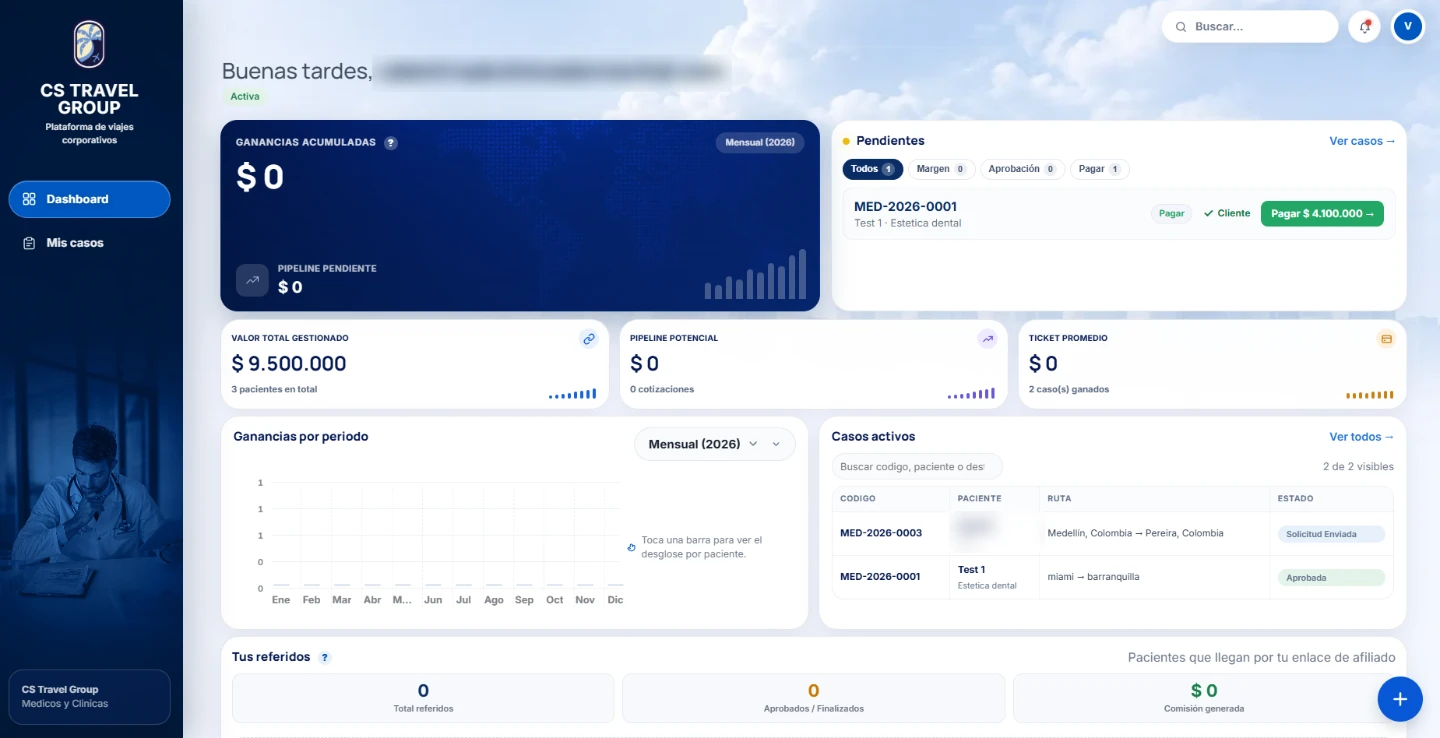
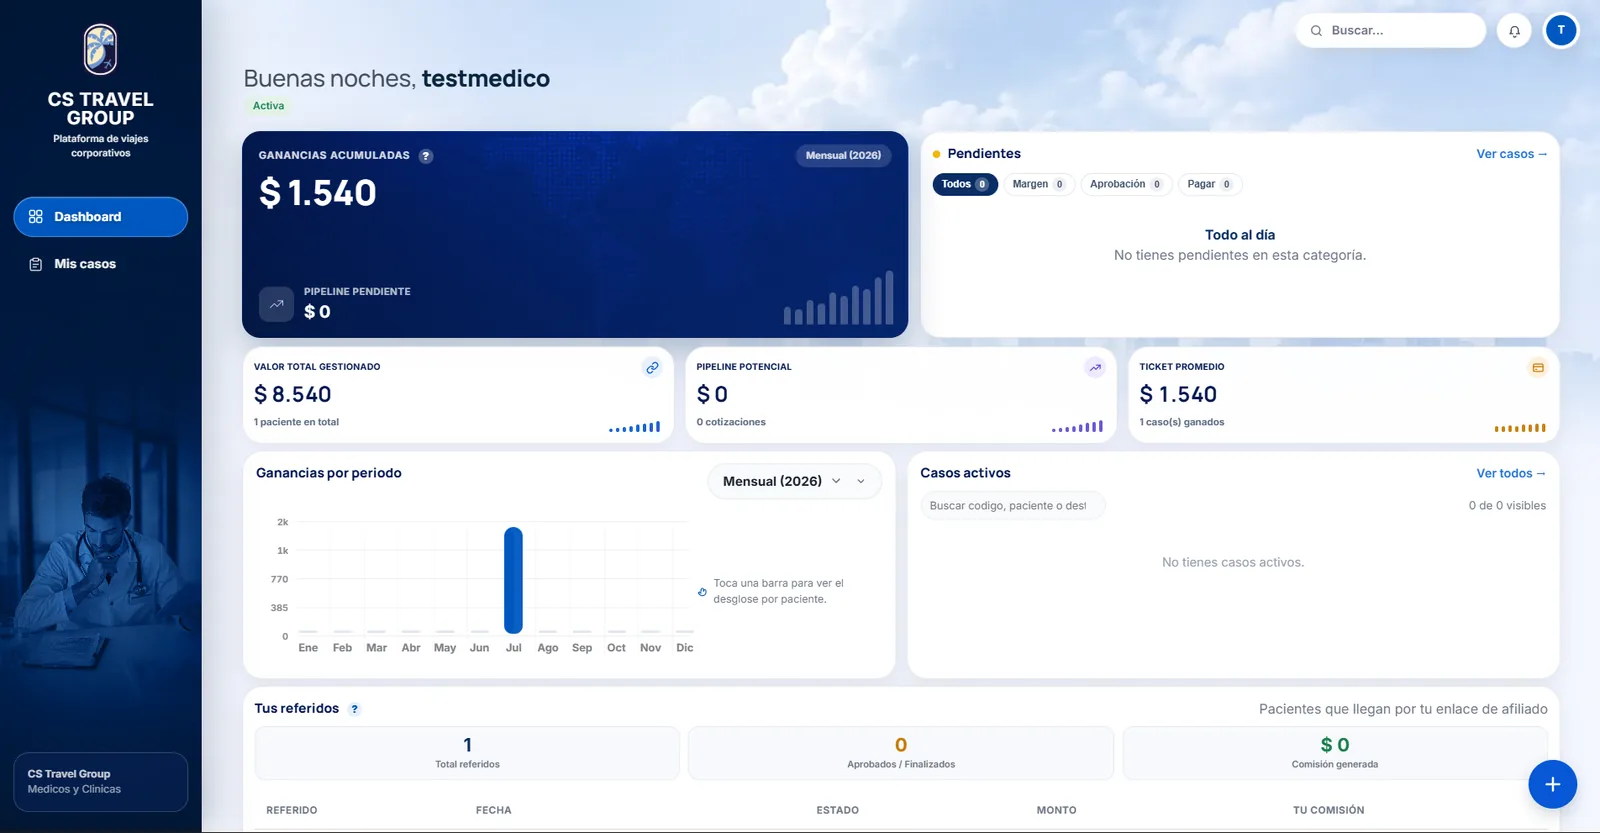
CS Travel: la captura nueva, y lo que el portal hace de verdad
LA DESCRIPCION ESTABA MAL Y ERA LO IMPORTANTE. Decia "portal para medicos
afiliados", que describe a los usuarios y no el negocio. Corregido con tu
explicacion: CS Travel da a sus afiliados un precio de mayorista; el afiliado
arma el caso de su paciente, decide cuanto cobra, y la diferencia es su
comision. El portal es donde lo lleva todo. Ahora es "portal de gestion para
afiliados de viaje" y las cuatro capacidades se reescriben desde ahi —la
segunda pasa a ser la comision calculada sola, que es la razon de que el
sistema exista.

LA CAPTURA NUEVA. Ademas de ser mas clara, no lleva nombre de paciente
difuminado: los datos que se ven son de una cuenta de prueba. 1600x833, 53 KB.

Y UN FALLO QUE HABRIA PASADO A PRODUCCION: el archivo se reemplazo conservando
el nombre, asi que el navegador seguia sirviendo la captura anterior desde su
cache. Comprobado: cargaba la vieja de 1440x738 teniendo la nueva de 1600x833
en disco. Se le pone ?v=2, con la nota de por que.

LA CABECERA, como en tu maqueta: "Caso destacado" con su rayita, y debajo CS
Travel Group como titular grande (38px, peso 800) en vez de como subtitulo. La
seccion se llama "software que ya mueve una operacion real" y lo que hay que
leer despues es DE QUIEN.

FUERA los cinco pasos de proceso que estaban debajo, y sus estilos. El proceso
ya se cuenta en "cuando vale la pena construir a la medida"; repetirlo aqui
alargaba sin anadir.

Y las cifras inventadas de la maqueta —"+320 medicos", "$950M", "98,7%"— no
[…]

diff --git a/software-a-medida/index.html b/software-a-medida/index.html
@@ -51,7 +51,7 @@
 
   <link rel="preload" href="/assets/fonts/inter-tight-latin-var.woff2" as="font" type="font/woff2" crossorigin>
   <link rel="preload" href="/assets/fonts/inter-latin-var.woff2" as="font" type="font/woff2" crossorigin>
-  <link rel="stylesheet" href="/assets/pagina.css?v=20260805u">
+  <link rel="stylesheet" href="/assets/pagina.css?v=20260805v">
 
   <script type="application/ld+json">
 {
@@ -576,14 +576,56 @@
       max-width: 68ch;
     }
 
-    /* ---- Caso ------------------------------------------------------------- */
+    
+
+    /* ---- Caso: la cabecera de la columna izquierda ------------------------
+       El nombre del cliente es el titular, no el subtitulo. En la maqueta va
+       grande y en negrita con "caso destacado" encima, y tiene sentido: la
+       seccion se llama "software que ya mueve una operacion real" y lo que
+       hay que leer despues es DE QUIEN. */
     .caso-kicker {
-      font-size: 12px;
-      font-weight: 700;
-      letter-spacing: .07em;
+      display: flex;
+      align-items: center;
+      gap: .6rem;
+      font-size: 11.5px;
+      font-weight: 800;
+      letter-spacing: .09em;
       text-transform: uppercase;
       color: var(--violet);
-      margin-bottom: .8rem;
+      margin-bottom: .7rem;
+    }
+
+    /* La rayita que acompana al antetitulo en la maqueta. */
+    .caso-kicker span {
+      display: block;
+      width: 34px;
+      height: 2px;
+      background: currentColor;
+      opacity: .45;
+      order: 2;
+    }
+
+    .caso-nombre {
+      font-family: var(--display);
+      font-size: clamp(2rem, 4.4vw, 3rem);
+      font-weight: 800;
+      letter-spacing: -.045em;
+      line-height: 1.05;
+      color: var(--ink);
+      margin-bottom: .35rem;
+    }
+
+    .caso-cliente {
+      font-size: 15px;
+      font-weight: 500;
+      color: var(--ink-soft);
+      margin-bottom: 1.4rem;
+    }
+
+    .caso-intro {
+      color: var(--ink-soft);
+      line-height: 1.7;
+      max-width: 46ch;
     }
 
     .caso-grid {
@@ -594,14 +636,7 @@
       margin-top: 2.4rem;
     }
 
-    .caso-cliente {
-      font-size: 13px;
-      font-weight: 700;
-      color: var(--ink);
-      margin-bottom: .8rem;
-    }
-
-    .caso-txt > p { color: var(--ink-soft); line-height: 1.7; }
+    
 
     .caso-lista {
       list-style: none;
@@ -663,49 +698,15 @@
       transform: perspective(1600px) rotateY(0) rotateX(0);
     }
 
-    /* ---- Proceso ----------------------------------------------------------- */
-    .caso-pasos {
-      list-style: none;
-      margin: 3rem 0 0;
-      padding: 1.8rem 0 0;
-      border-top: 1px solid var(--line);
-      display: grid;
-      grid-template-columns: repeat(5, minmax(0, 1fr));
-      gap: 1.4rem;
-      counter-reset: paso;
-    }
-
-    .caso-pasos li {
-      counter-increment: paso;
-      font-size: 12.5px;
-      line-height: 1.55;
-      color: var(--ink-soft);
-    }
-
-    .caso-pasos b {
-      display: block;
-      font-size: 13.5px;
-      font-weight: 700;
-      color: var(--ink);
-      margin-bottom: .25rem;
-    }
-
-    .caso-pasos b::before {
-      content: counter(paso, decimal-leading-zero) " · ";
-      color: var(--violet);
-    }
-
     @media (max-width: 900px) {
       .sint-grid { grid-template-columns: 1fr; gap: 1.4rem; }
       .caso-grid { grid-template-columns: 1fr; gap: 2rem; }
       /* Sin inclinación en el teléfono: una captura girada en pantalla
          estrecha pierde altura útil y se lee peor. */
       .caso-shot img { transform: none; }
-      .caso-pasos { grid-template-columns: repeat(2, minmax(0, 1fr)); }
     }
 
     @media (max-width: 520px) {
-      .caso-pasos { grid-template-columns: 1fr; gap: 1rem; }
     }
   </style>
 </head>
@@ -977,74 +978,73 @@
     </section>
 
     <!-- UN CASO REAL.
-         Distribución tomada de la maqueta que pasó Nicolás: lista a la
-         izquierda, captura inclinada a la derecha, y el proceso en una fila
-         abajo.
+         Distribución de la maqueta de Nicolás: el NOMBRE DEL CLIENTE es el
+         titular de la columna izquierda —grande y en negrita, con "caso
+         destacado" encima—, la lista de capacidades debajo con sus iconos, y
+         la captura a la derecha.
 
-         LO QUE NO SE COPIÓ DE ESA MAQUETA, Y POR QUÉ: llevaba cuatro cifras
-         flotando sobre la pantalla —"+320 médicos activos", "$950M
-         gestionados", "98,7% de disponibilidad", "en producción desde enero
-         2024"—. No son datos de la captura: son afirmaciones sobre nuestro
-         trabajo en una página de venta, y no las tenemos. Es el mismo caso que
-         el "50+ factores" que se quitó de la herramienta. En su lugar van
-         cuatro hechos que la captura sí demuestra.
+         QUÉ ES ESTO, corregido por Nicolás: no es un portal de médicos. CS
+         Travel da a sus afiliados un precio de mayorista; el afiliado arma el
+         caso de su paciente, decide cuánto cobra, y la diferencia es su
+         comisión. El portal es donde lleva todo eso. La descripción anterior
+         —"portal para médicos afiliados"— describía a los usuarios y no el
+         negocio, que es lo que hace entender para qué sirve.
 
-         La inclinación es leve —seis grados— y solo en escritorio: una captura
-         muy girada se ve de diseño y no de producto, y el objetivo es que se
-         entienda qué hace el sistema. -->
+         LO QUE NO SE PONE, Y POR QUÉ: la maqueta llevaba cuatro cifras
+         flotando —"+320 médicos activos", "$950M gestionados", "98,7% de
+         disponibilidad"—. Nicolás confirmó que son inventadas. Son
+         afirmaciones sobre nuestro trabajo en una página de venta; no van.
+
+         TAMPOCO van los cinco pasos de proceso que había aquí debajo: los
+         quitó él, y con razón — el proceso ya está contado en "Cuándo vale la
+         pena construir a la medida", y repetirlo aquí alargaba la sección sin
+         añadir nada. -->
     <section class="section alt" id="caso">
       <div class="wrap">
-        <p class="caso-kicker">Caso · CS Travel Group</p>
-        <h2 class="sec-head">Software que ya mueve una operación real<span class="dot">.</span></h2>
-
         <div class="caso-grid">
           <div class="caso-txt">
-            <p class="caso-cliente">Portal para médicos afiliados</p>
-            <p>CS Travel Group coordina viajes médicos. Construimos el portal por donde entran los
-              médicos que refieren pacientes: cada uno ve sus casos, en qué punto está cada uno y
-              cuánto lleva ganado, sin preguntarle a nadie.</p>
+            <p class="caso-kicker"><span aria-hidden="true"></span>Caso destacado</p>
+            <h2 class="caso-nombre">CS Travel Group<span class="dot">.</span></h2>
+            <p class="caso-cliente">Portal de gestión para afiliados de viaje</p>
+
+            <p class="caso-intro">Sus afiliados reciben un precio de mayorista. Cada uno arma el
+              caso de su paciente, decide cuánto cobra, y la diferencia es su comisión. El portal es
+              donde lo llevan todo.</p>
 
             <ul class="caso-lista">
               <li>
                 <span class="caso-ico" aria-hidden="true"><svg width="17" height="17" viewBox="0 0 24 24" fill="none" stroke="currentColor" stroke-width="2" stroke-linecap="round" stroke-linejoin="round"><path d="M16 21v-2a4 4 0 0 0-4-4H6a4 4 0 0 0-4 4v2"/><circle cx="9" cy="7" r="4"/><path d="M22 21v-2a4 4 0 0 0-3-3.87"/></svg></span>
-                <b>Casos con su estado y su ruta</b>
-                Código, paciente y en qué punto va: solicitud enviada, aprobada o pendiente de pago.
+                <b>Sus casos, con estado y ruta</b>
+                Cada caso con su código, su paciente y en qué punto va.
               </li>
               <li>
                 <span class="caso-ico" aria-hidden="true"><svg width="17" height="17" viewBox="0 0 24 24" fill="none" stroke="currentColor" stroke-width="2" stroke-linecap="round" stroke-linejoin="round"><circle cx="12" cy="12" r="9"/><path d="M14.5 9.5A2.5 2.5 0 0 0 12 8c-1.4 0-2.5.9-2.5 2s1.1 2 2.5 2 2.5.9 2.5 2-1.1 2-2.5 2a2.5 2.5 0 0 1-2.5-1.5M12 6.5v11"/></svg></span>
-                <b>Cobros y aprobaciones</b>
-                Lo que está pendiente de aprobar y lo que está pendiente de pagar, separado.
+                <b>La comisión, calculada sola</b>
+                La diferencia entre lo que cobra y el precio de mayorista, sin sacar cuentas.
               </li>
               <li>
-                <span class="caso-ico" aria-hidden="true"><svg width="17" height="17" viewBox="0 0 24 24" fill="none" stroke="currentColor" stroke-width="2" stroke-linecap="round" stroke-linejoin="round"><path d="M3 3v18h18"/><rect x="7" y="12" width="3" height="6"/><rect x="12" y="8" width="3" height="10"/><rect x="17" y="5" width="3" height="13"/></svg></span>
-                <b>Ganancias por periodo</b>
-                Lo acumulado y lo que falta, con el desglose por paciente.
+                <span class="caso-ico" aria-hidden="true"><svg width="17" height="17" viewBox="0 0 24 24" fill="none" stroke="currentColor" stroke-width="2" stroke-linecap="round" stroke-linejoin="round"><path d="M9 11l3 3 8-8"/><path d="M20 12v7a2 2 0 0 1-2 2H6a2 2 0 0 1-2-2V6a2 2 0 0 1 2-2h9"/></svg></span>
+                <b>Aprobaciones y cobros</b>
+                Lo que está esperando visto bueno y lo que está esperando pago, separado.
               </li>
               <li>
                 <span class="caso-ico" aria-hidden="true"><svg width="17" height="17" viewBox="0 0 24 24" fill="none" stroke="currentColor" stroke-width="2" stroke-linecap="round" stroke-linejoin="round"><path d="M10 13a5 5 0 0 0 7.5.5l3-3a5 5 0 0 0-7-7l-1.7 1.7"/><path d="M14 11a5 5 0 0 0-7.5-.5l-3 3a5 5 0 0 0 7 7l1.7-1.7"/></svg></span>
-                <b>Enlace de afiliado con seguimiento</b>
-                Cada médico con su enlace, y los pacientes que llegaron por él.
+                <b>Su enlace de afiliado</b>
+                Quién llegó por él y cuánto ha generado.
               </li>
             </ul>
           </div>
 
+          <!-- ?v=2 en la imagen: se reemplazo el archivo conservando el
+               nombre, y sin esto el navegador sigue sirviendo la captura
+               anterior desde su cache. Comprobado: cargaba la vieja de
+               1440x738 teniendo la nueva de 1600x833 en disco. -->
           <figure class="caso-shot">
-            <img src="/assets/trabajo-cstravel-software.webp"
-              alt="Panel de un médico en la plataforma de CS Travel Group: casos con su estado, cobros pendientes, ganancias por periodo y pacientes referidos"
-              width="1440" height="738" loading="lazy" decoding="async">
+            <img src="/assets/trabajo-cstravel-software.webp?v=2"
+              alt="Panel de un afiliado en la plataforma de CS Travel Group: ganancias acumuladas, valor gestionado, ganancias por periodo, casos activos y referidos"
+              width="1600" height="833" loading="lazy" decoding="async">
           </figure>
         </div>
-
-        <!-- El proceso va aquí abajo y no en su propia sección: contado junto
-             a algo que existe se lee como lo que pasó; suelto, se lee como el
-             folleto de proceso que tiene cualquiera. -->
-        <ol class="caso-pasos">
-          <li><b>Entender la operación</b>Qué se hace hoy a mano y dónde se pierde el tiempo.</li>
-          <li><b>Diseñar el flujo</b>Las pantallas que hacen falta, y las que no.</li>
-          <li><b>Construir</b>Con el alcance por escrito acordado antes de empezar.</li>
-          <li><b>Conectar</b>Con lo que la empresa ya usa, sin obligarla a cambiarlo.</li>
-          <li><b>Entregar</b>El sistema y su código quedan a nombre de la empresa.</li>
-        </ol>
       </div>
     </section>
 

diff --git a/blog/como-aparecer-en-google-maps/index.html b/blog/como-aparecer-en-google-maps/index.html
@@ -53,7 +53,7 @@
 
   <link rel="preload" href="/assets/fonts/inter-tight-latin-var.woff2" as="font" type="font/woff2" crossorigin>
   <link rel="preload" href="/assets/fonts/inter-latin-var.woff2" as="font" type="font/woff2" crossorigin>
-  <link rel="stylesheet" href="/assets/pagina.css?v=20260805u">
+  <link rel="stylesheet" href="/assets/pagina.css?v=20260805v">
 
   <script type="application/ld+json">
 {

diff --git a/blog/cuanto-cuesta-una-pagina-web-en-colombia/index.html b/blog/cuanto-cuesta-una-pagina-web-en-colombia/index.html
@@ -53,7 +53,7 @@
 
   <link rel="preload" href="/assets/fonts/inter-tight-latin-var.woff2" as="font" type="font/woff2" crossorigin>
   <link rel="preload" href="/assets/fonts/inter-latin-var.woff2" as="font" type="font/woff2" crossorigin>
-  <link rel="stylesheet" href="/assets/pagina.css?v=20260805u">
+  <link rel="stylesheet" href="/assets/pagina.css?v=20260805v">
 
   <script type="application/ld+json">
 {

diff --git a/blog/cuanto-cuesta-una-pagina-web-en-mexico/index.html b/blog/cuanto-cuesta-una-pagina-web-en-mexico/index.html
@@ -53,7 +53,7 @@
 
   <link rel="preload" href="/assets/fonts/inter-tight-latin-var.woff2" as="font" type="font/woff2" crossorigin>
   <link rel="preload" href="/assets/fonts/inter-latin-var.woff2" as="font" type="font/woff2" crossorigin>
-  <link rel="stylesheet" href="/assets/pagina.css?v=20260805u">
+  <link rel="stylesheet" href="/assets/pagina.css?v=20260805v">
 
   <script type="application/ld+json">
 {

diff --git a/blog/cuanto-cuesta-una-pagina-web-en-peru/index.html b/blog/cuanto-cuesta-una-pagina-web-en-peru/index.html
@@ -53,7 +53,7 @@
 
   <link rel="preload" href="/assets/fonts/inter-tight-latin-var.woff2" as="font" type="font/woff2" crossorigin>
   <link rel="preload" href="/assets/fonts/inter-latin-var.woff2" as="font" type="font/woff2" crossorigin>
-  <link rel="stylesheet" href="/assets/pagina.css?v=20260805u">
+  <link rel="stylesheet" href="/assets/pagina.css?v=20260805v">
 
   <script type="application/ld+json">
 {

diff --git a/blog/google-no-encuentra-mi-pagina/index.html b/blog/google-no-encuentra-mi-pagina/index.html
@@ -53,7 +53,7 @@
 
   <link rel="preload" href="/assets/fonts/inter-tight-latin-var.woff2" as="font" type="font/woff2" crossorigin>
   <link rel="preload" href="/assets/fonts/inter-latin-var.woff2" as="font" type="font/woff2" crossorigin>
-  <link rel="stylesheet" href="/assets/pagina.css?v=20260805u">
+  <link rel="stylesheet" href="/assets/pagina.css?v=20260805v">
 
   <script type="application/ld+json">
 {

diff --git a/blog/index.html b/blog/index.html
@@ -51,7 +51,7 @@
 
   <link rel="preload" href="/assets/fonts/inter-tight-latin-var.woff2" as="font" type="font/woff2" crossorigin>
   <link rel="preload" href="/assets/fonts/inter-latin-var.woff2" as="font" type="font/woff2" crossorigin>
-  <link rel="stylesheet" href="/assets/pagina.css?v=20260805u">
+  <link rel="stylesheet" href="/assets/pagina.css?v=20260805v">
 
   <script type="application/ld+json">
 {

diff --git a/blog/mejores-agencias-diseno-web-barranquilla/index.html b/blog/mejores-agencias-diseno-web-barranquilla/index.html
@@ -53,7 +53,7 @@
 
   <link rel="preload" href="/assets/fonts/inter-tight-latin-var.woff2" as="font" type="font/woff2" crossorigin>
   <link rel="preload" href="/assets/fonts/inter-latin-var.woff2" as="font" type="font/woff2" crossorigin>
-  <link rel="stylesheet" href="/assets/pagina.css?v=20260805u">
+  <link rel="stylesheet" href="/assets/pagina.css?v=20260805v">
 
   <script type="application/ld+json">
 {

diff --git a/blog/modelos-abiertos-de-ia-para-pymes/index.html b/blog/modelos-abiertos-de-ia-para-pymes/index.html
@@ -53,7 +53,7 @@
 
   <link rel="preload" href="/assets/fonts/inter-tight-latin-var.woff2" as="font" type="font/woff2" crossorigin>
   <link rel="preload" href="/assets/fonts/inter-latin-var.woff2" as="font" type="font/woff2" crossorigin>
-  <link rel="stylesheet" href="/assets/pagina.css?v=20260805u">
+  <link rel="stylesheet" href="/assets/pagina.css?v=20260805v">
 
   <script type="application/ld+json">
 {

diff --git a/blog/por-que-mis-correos-llegan-a-spam/index.html b/blog/por-que-mis-correos-llegan-a-spam/index.html
@@ -53,7 +53,7 @@
 
   <link rel="preload" href="/assets/fonts/inter-tight-latin-var.woff2" as="font" type="font/woff2" crossorigin>
   <link rel="preload" href="/assets/fonts/inter-latin-var.woff2" as="font" type="font/woff2" crossorigin>
-  <link rel="stylesheet" href="/assets/pagina.css?v=20260805u">
+  <link rel="stylesheet" href="/assets/pagina.css?v=20260805v">
 
   <script type="application/ld+json">
 {

diff --git a/blog/que-es-un-agente-de-ia/index.html b/blog/que-es-un-agente-de-ia/index.html
@@ -53,7 +53,7 @@
 
   <link rel="preload" href="/assets/fonts/inter-tight-latin-var.woff2" as="font" type="font/woff2" crossorigin>
   <link rel="preload" href="/assets/fonts/inter-latin-var.woff2" as="font" type="font/woff2" crossorigin>
-  <link rel="stylesheet" href="/assets/pagina.css?v=20260805u">
+  <link rel="stylesheet" href="/assets/pagina.css?v=20260805v">
 
   <script type="application/ld+json">
 {

diff --git a/blog/seo-para-ia/index.html b/blog/seo-para-ia/index.html
@@ -53,7 +53,7 @@
 
   <link rel="preload" href="/assets/fonts/inter-tight-latin-var.woff2" as="font" type="font/woff2" crossorigin>
   <link rel="preload" href="/assets/fonts/inter-latin-var.woff2" as="font" type="font/woff2" crossorigin>
-  <link rel="stylesheet" href="/assets/pagina.css?v=20260805u">
+  <link rel="stylesheet" href="/assets/pagina.css?v=20260805v">
 
   <script type="application/ld+json">
 {
